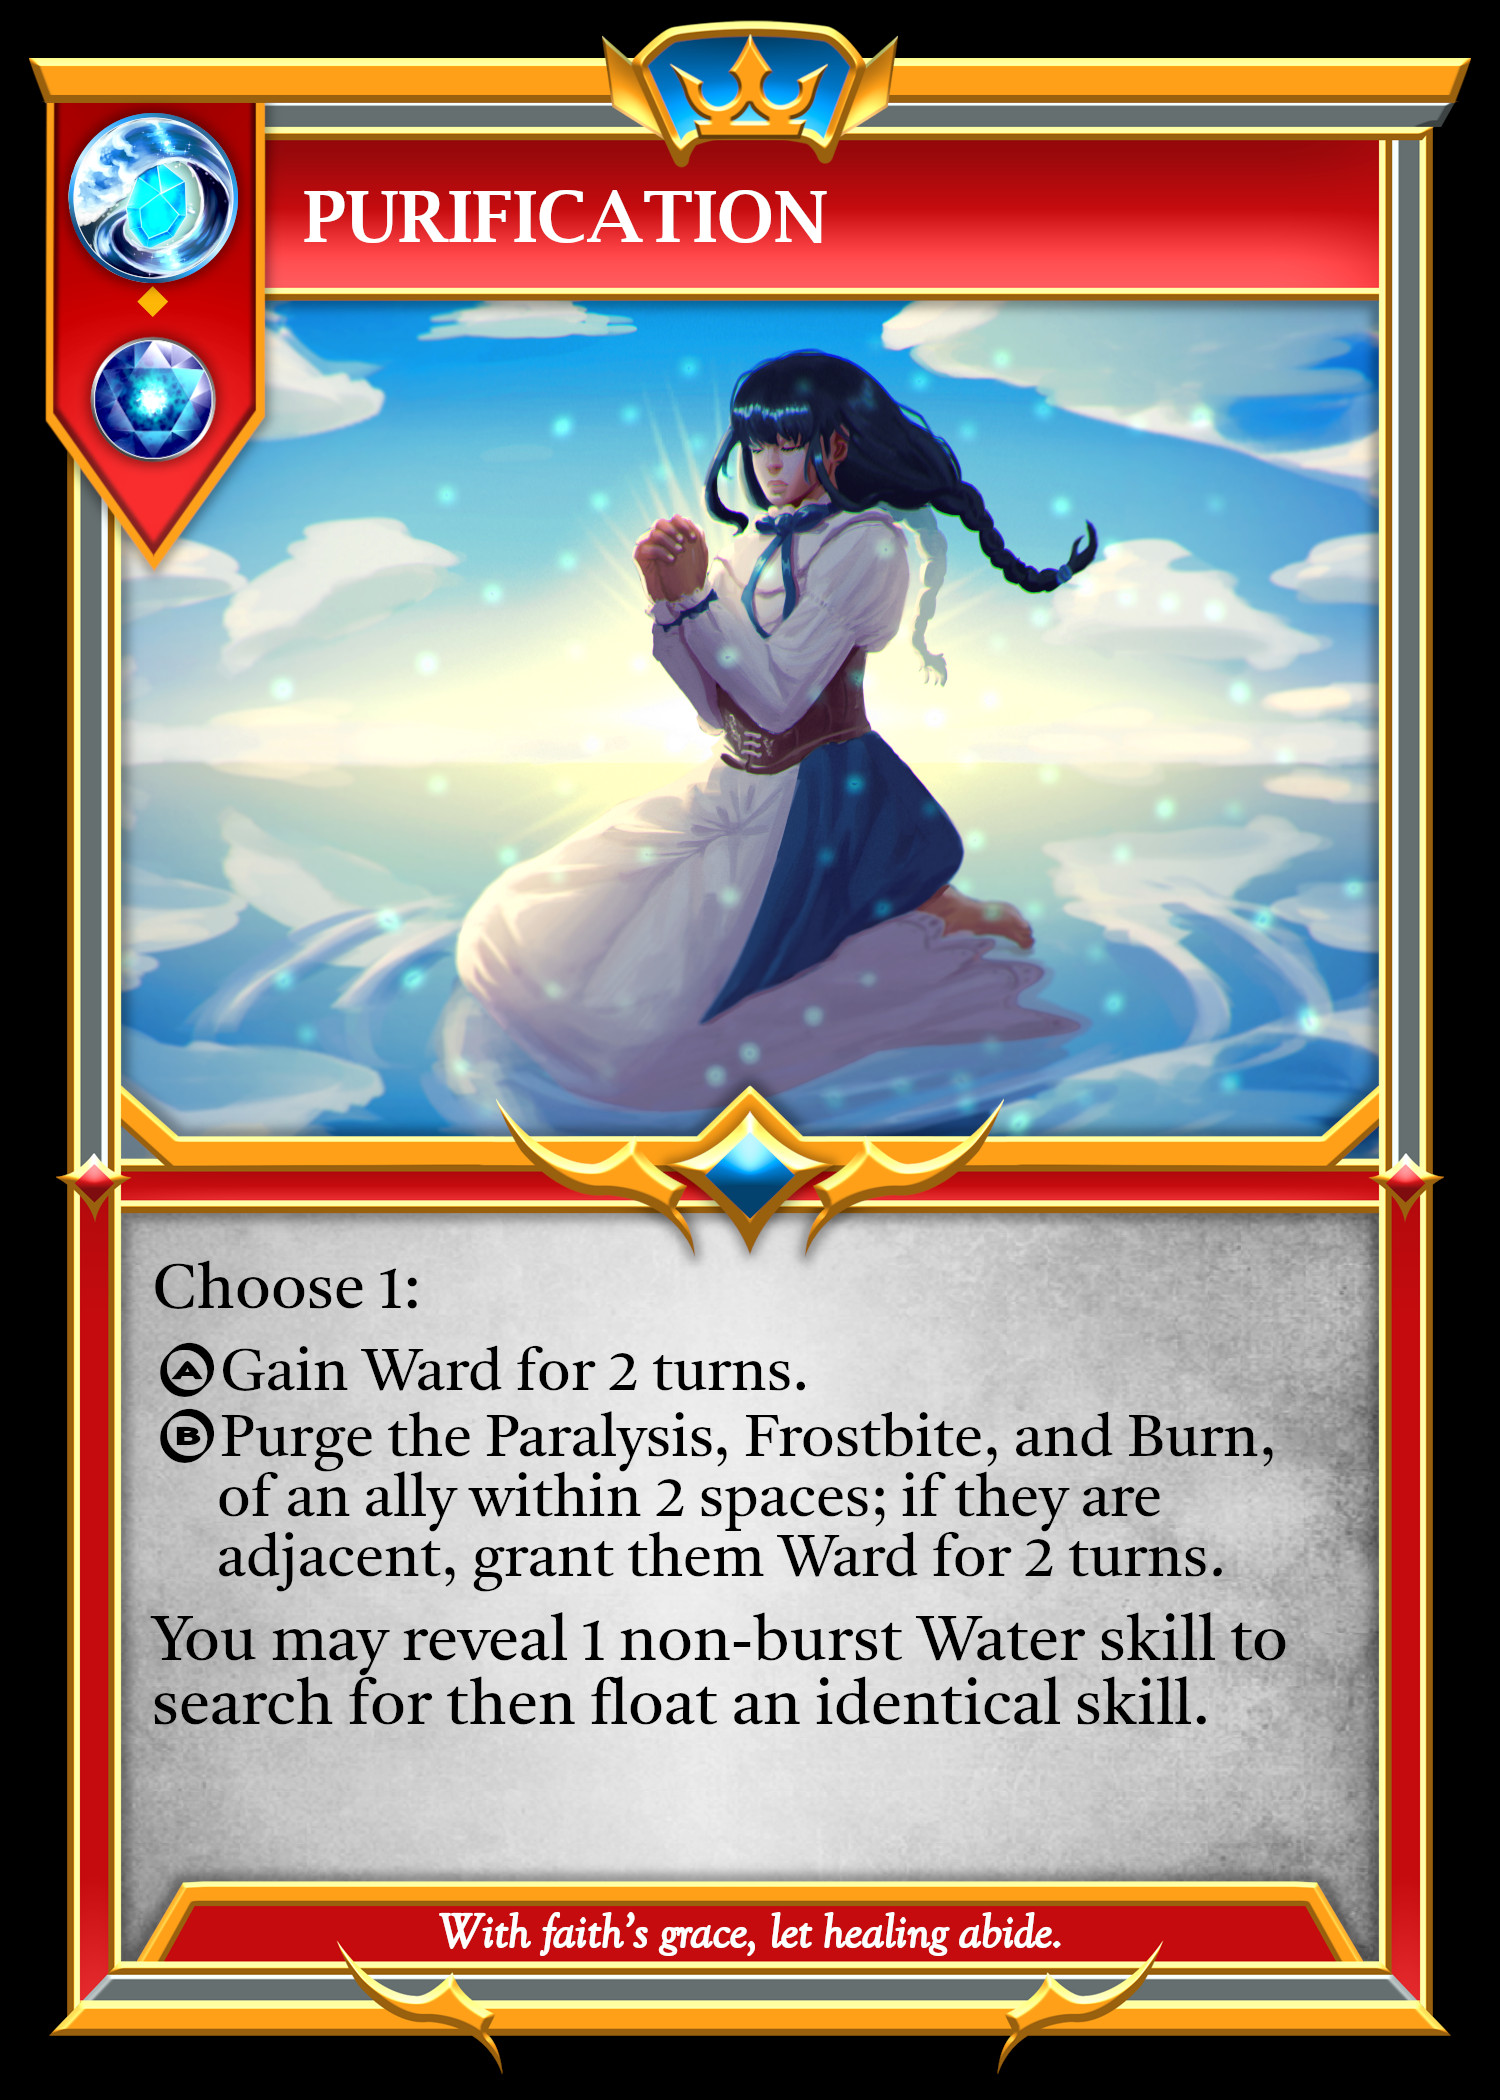
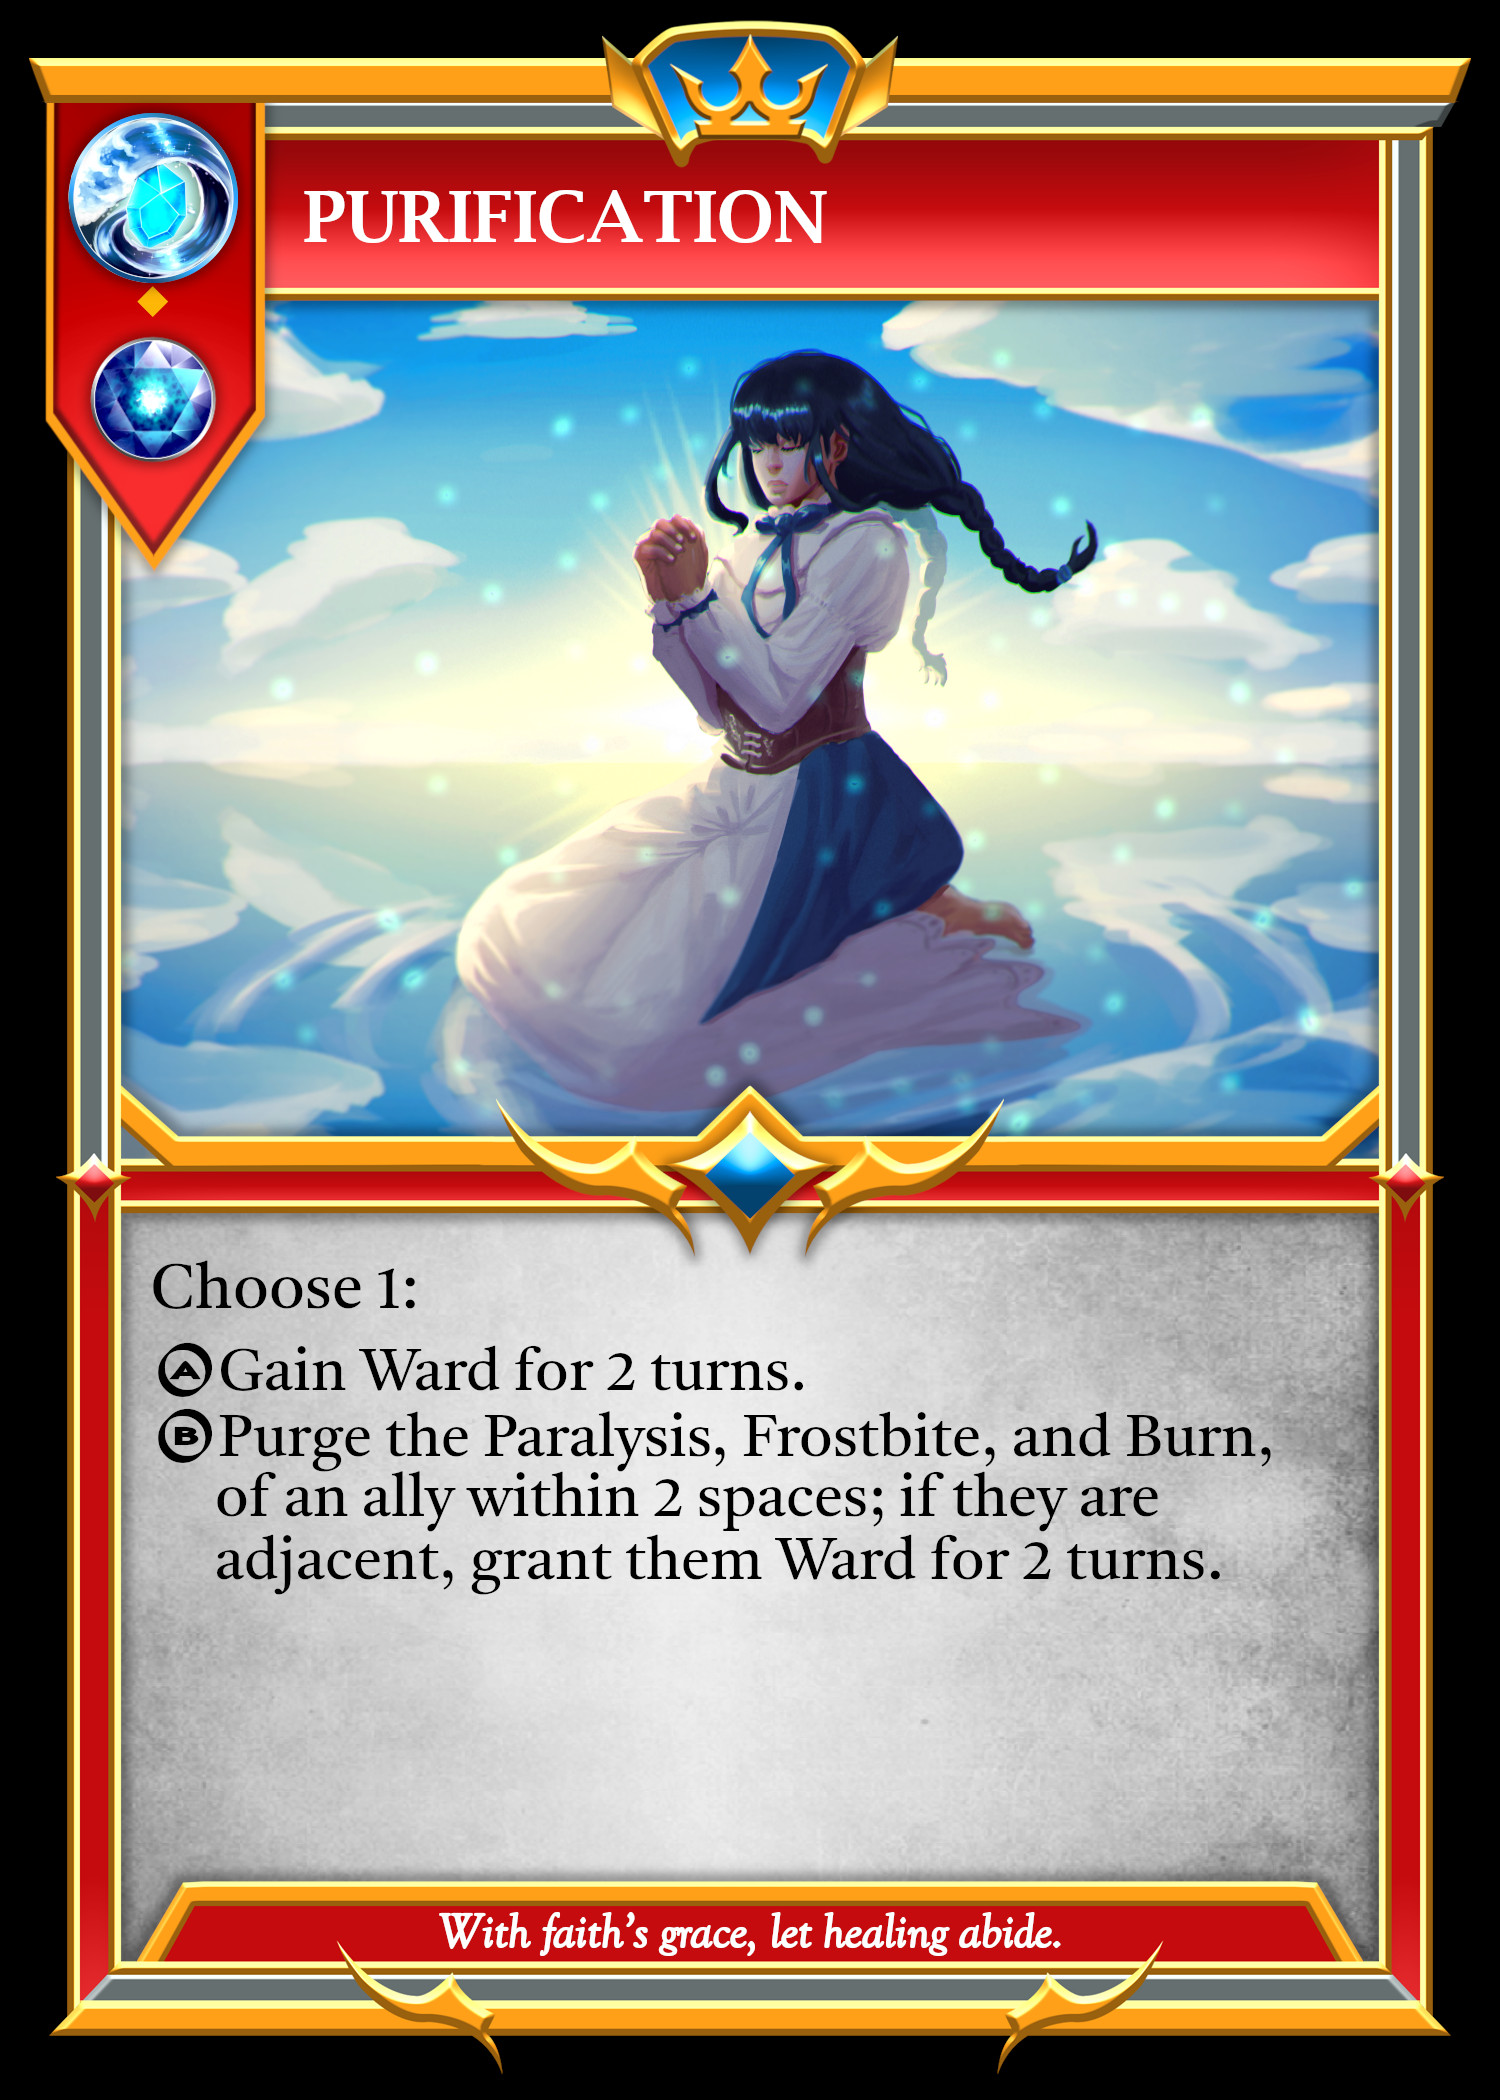
cleaned some functions. Nerfed Water Scion: Purification cannot search; Frigid Breath resonance floats

Changed region(s): [[0.092, 0.5881, 0.8587, 0.8357]]

diff --git a/src/hooks/useSkillEffects.jsx b/src/hooks/useSkillEffects.jsx
@@ -1,6 +1,6 @@
 import React from "react";
 
-import { useSelector, useDispatch } from "react-redux";
+import { useSelector } from "react-redux";
 import { useRecurringEffects } from "./useRecurringEffects";
 
 export const useSkillEffects = () => {
@@ -9,7 +9,6 @@ export const useSkillEffects = () => {
 
   const {
     blast,
-    canBlast,
     canMove,
     canStrike,
     drawSkill,
@@ -283,19 +282,6 @@ export const useSkillEffects = () => {
 
     newGameState.currentResolution.push({
       resolution: "Water Skill",
-      resolution2: "Purification2",
-      unit: unit,
-      details: {
-        title: "Purification",
-        message:
-          "You may reveal 1 non-burst Water skill to search for then float an identical skill.",
-        restriction: ["02-01", "02-02", "02-03"],
-        reason: "Purification",
-      },
-    });
-
-    newGameState.currentResolution.push({
-      resolution: "Water Skill",
       resolution2: "Purification1",
       unit: unit,
       details: {
@@ -323,7 +309,7 @@ export const useSkillEffects = () => {
       if (resonator !== "SA-02") {
         newGameState.currentResolution.push({
           resolution: "Misc.",
-          resolution2: "Retain resonant skill unit",
+          resolution2: "May float resonant skill unit",
           unit: unit,
           player: unit.player,
           skill: "02-02",
@@ -408,6 +394,25 @@ export const useSkillEffects = () => {
         },
       });
     }
+
+    return newGameState;
+  };
+
+  const frigidBreathR3 = (unitInfo) => {
+    let newGameState = JSON.parse(JSON.stringify(localGameState));
+    let unit = newGameState[unitInfo.player].units[unitInfo.unitIndex];
+
+    //end "Frigid BreathR3" resolution
+    newGameState.currentResolution.pop();
+
+    enterSelectUnitMode(
+      getZonesWithEnemiesAfflicted(unit, 1, "frostbite"),
+      unit,
+      newGameState,
+      null,
+      "blast",
+      null
+    );
 
     return newGameState;
   };
@@ -822,9 +827,11 @@ export const useSkillEffects = () => {
     newGameState.currentResolution.pop();
 
     if (unit && !isMuted(unit) && getZonesWithEnemies(unit, 1).length > 0) {
+      let adjacentEnemies = getZonesWithEnemiesAfflicted(unit, 1, "paralysis");
+
       if (
         newGameState[self].skillHand.length > 0 &&
-        getZonesWithEnemiesAfflicted(unit, 1, "paralysis").length > 0
+        adjacentEnemies.length > 0
       ) {
         newGameState.currentResolution.push({
           resolution: "Wind Skill",
@@ -836,11 +843,30 @@ export const useSkillEffects = () => {
               "You may reveal 1 Wind skill to blast an adjacent paralyzed enemy.",
             restriction: ["03-01", "03-02", "03-03", "03-04"],
             reason: "Cataclysmic Tempest",
-            adjacentEnemies: getZonesWithEnemiesAfflicted(unit, 1, "paralysis"),
+            // adjacentEnemies: adjacentEnemies,
           },
         });
       }
     }
+
+    return newGameState;
+  };
+
+  const cataclysmicTempest5 = (unitInfo) => {
+    let newGameState = JSON.parse(JSON.stringify(localGameState));
+    let unit = newGameState[unitInfo.player].units[unitInfo.unitIndex];
+
+    //end "Cataclysmic Tempest7" resolution
+    newGameState.currentResolution.pop();
+
+    enterSelectUnitMode(
+      getZonesWithEnemiesAfflicted(unit, 1, "paralysis"),
+      unit,
+      newGameState,
+      null,
+      "blast",
+      null
+    );
 
     return newGameState;
   };
@@ -2349,6 +2375,8 @@ export const useSkillEffects = () => {
         return frigidBreath2(a);
       case "frigidBreathR2":
         return frigidBreathR2(a);
+      case "frigidBreathR3":
+        return frigidBreathR3(a);
       case "healingRain1":
         return healingRain1(a, b);
       case "glacialTorrent1":
@@ -2375,6 +2403,8 @@ export const useSkillEffects = () => {
         return cataclysmicTempest3(a);
       case "cataclysmicTempest4":
         return cataclysmicTempest4(a);
+      case "cataclysmicTempest5":
+        return cataclysmicTempest5(a);
 
       //Land
       case "crystallization1":

diff --git a/src/components/BoardArea.jsx b/src/components/BoardArea.jsx
@@ -162,7 +162,6 @@ const BoardArea = (props) => {
     selectDarkHalo,
     selectDestine,
     selectEnemies,
-    selectEnemiesAfflicted,
     selectEnemiesRooted,
     selectFatedRivalry,
     selectFrenzyBladeActivator,
@@ -1758,20 +1757,6 @@ const BoardArea = (props) => {
             }
             break;
 
-          case "Purification2":
-            return (
-              <>
-                {self === lastRes.unit.player && !hideModal && (
-                  <SelectSkillReveal
-                    unit={lastRes.unit}
-                    details={lastRes.details}
-                    updateFirebase={updateFirebase}
-                    hideOrRevealModale={hideOrRevealModale}
-                  />
-                )}
-              </>
-            );
-
           case "Activating Frigid Breath":
             if (self === lastRes.unit.player) {
               updateLocalState(
@@ -1834,14 +1819,7 @@ const BoardArea = (props) => {
 
           case "Frigid BreathR3":
             if (self === lastRes.unit.player) {
-              selectEnemiesAfflicted(
-                lastRes.unit,
-                1,
-                null,
-                "blast",
-                null,
-                "frostbite"
-              );
+              resolutionUpdate(applySkill("frigidBreathR3", lastRes.unit));
             }
             break;
 
@@ -2145,16 +2123,9 @@ const BoardArea = (props) => {
               </>
             );
 
-          case "Cataclysmic Tempest6.5":
+          case "Cataclysmic Tempest7":
             if (self === lastRes.unit.player) {
-              selectEnemiesAfflicted(
-                lastRes.unit,
-                1,
-                null,
-                "blast",
-                null,
-                "paralysis"
-              );
+              resolutionUpdate(applySkill("cataclysmicTempest5", lastRes.unit));
             }
             break;
         }

diff --git a/src/components/modals/SelectSkillReveal.jsx b/src/components/modals/SelectSkillReveal.jsx
@@ -68,29 +68,6 @@ const SelectSkillReveal = (props) => {
     let revealMessage = "";
 
     switch (props.details.reason) {
-      case "Purification":
-        newGameState.currentResolution.push({
-          resolution: "Search Skill",
-          player: self,
-          details: {
-            restriction: usableSkills[selectedSkill].id,
-            exclusion: [],
-            searchTitle: "Purification",
-            searchMessage: "Search for then float the skill you revealed",
-            outcome: "Float",
-            revealTitle: null,
-            revealMessage: null,
-            messageTitle: null,
-            message: null,
-            specMessage: null,
-          },
-        });
-
-        revealTitle = "Purification";
-        revealMessage = "Your opponent has revealed 1 Water Skill";
-
-        break;
-
       case "Healing Rain":
         let healingRainUnit =
           newGameState[props.details.victim.player].units[
@@ -101,7 +78,6 @@ const SelectSkillReveal = (props) => {
 
         revealTitle = "Healing Rain";
         revealMessage = "Your opponent has revealed 1 Water Skill";
-
         break;
 
       case "Symphonic Screech":
@@ -113,7 +89,7 @@ const SelectSkillReveal = (props) => {
       case "Cataclysmic Tempest":
         newGameState.currentResolution.push({
           resolution: "Wind Skill",
-          resolution2: "Cataclysmic Tempest6.5",
+          resolution2: "Cataclysmic Tempest7",
           unit: unit,
         });
 

diff --git a/src/hooks/useRecurringEffects.jsx b/src/hooks/useRecurringEffects.jsx
@@ -4579,31 +4579,6 @@ export const useRecurringEffects = () => {
     }
   };
 
-  const selectEnemiesAfflicted = (
-    unitInfo,
-    range,
-    tactic,
-    reason,
-    special,
-    affliction
-  ) => {
-    let newGameState = JSON.parse(JSON.stringify(localGameState));
-    const unit = newGameState[unitInfo.player].units[unitInfo.unitIndex];
-
-    newGameState.currentResolution.pop();
-
-    if (unit !== null && !isMuted(unit)) {
-      enterSelectUnitMode(
-        getZonesWithEnemiesAfflicted(unit, range, affliction),
-        unit,
-        newGameState,
-        tactic,
-        reason,
-        special
-      );
-    }
-  };
-
   const selectEnemiesRooted = (unitInfo, range, tactic, reason, special) => {
     let newGameState = JSON.parse(JSON.stringify(localGameState));
     const unit = newGameState[unitInfo.player].units[unitInfo.unitIndex];
@@ -5584,7 +5559,6 @@ export const useRecurringEffects = () => {
     selectDarkHalo,
     selectDestine,
     selectEnemies,
-    selectEnemiesAfflicted,
     selectEnemiesRooted,
     selectFatedRivalry,
     selectFrenzyBladeActivator,

diff --git a/src/components/skillModals/CataclysmicTempestFloat.jsx b/src/components/skillModals/CataclysmicTempestFloat.jsx
@@ -47,10 +47,6 @@ const CataclysmicTempestFloat = (props) => {
       newGameState[self].skillHand.splice(i, 1);
     }
 
-    // console.log(newGameState[self].skillFloat);
-    // console.log(newGameState[self].skillRepertoire);
-    // console.log(newGameState[self].skillHand);
-
     dispatch(updateState(newGameState));
     props.updateFirebase(newGameState);
   };
@@ -97,12 +93,10 @@ const CataclysmicTempestFloat = (props) => {
 
         {message()}
 
+        <br />
+
         <div className="modalContent">
-          <div
-            className={`fourColumn scrollable scrollable-y-only ${
-              localGameState[self].skillFloat > 0 ? "decreased-height" : ""
-            } `}
-          >
+          <div className={`fourColumn scrollable scrollable-y-only`}>
             {hand.map((usableSkill, i) => (
               <div
                 key={i}

diff --git a/src/components/modals/AcquisitionPhase.jsx b/src/components/modals/AcquisitionPhase.jsx
@@ -135,20 +135,6 @@ const AcquisitionPhase = (props) => {
         newGameState = drawSkill(newGameState);
         newGameState = nextPhase(newGameState);
 
-        // if (newGameState[self].bountyUpgrades.acquisition >= 3) {
-        //   newGameState.currentResolution.push({
-        //     resolution: "Misc.",
-        //     resolution2: "Acquisition Phase: Cultivate",
-        //     player: self,
-        //     details: {
-        //       title: "Cultivate",
-        //       message: "You may spend 1 skill to draw again.",
-        //       restriction: null,
-        //       reason: "Cultivate",
-        //     },
-        //   });
-        // }
-
         if (
           newGameState[self].bountyUpgrades.acquisition >= 3 &&
           newGameState[self].skillVestige.includes("SX-01") &&
